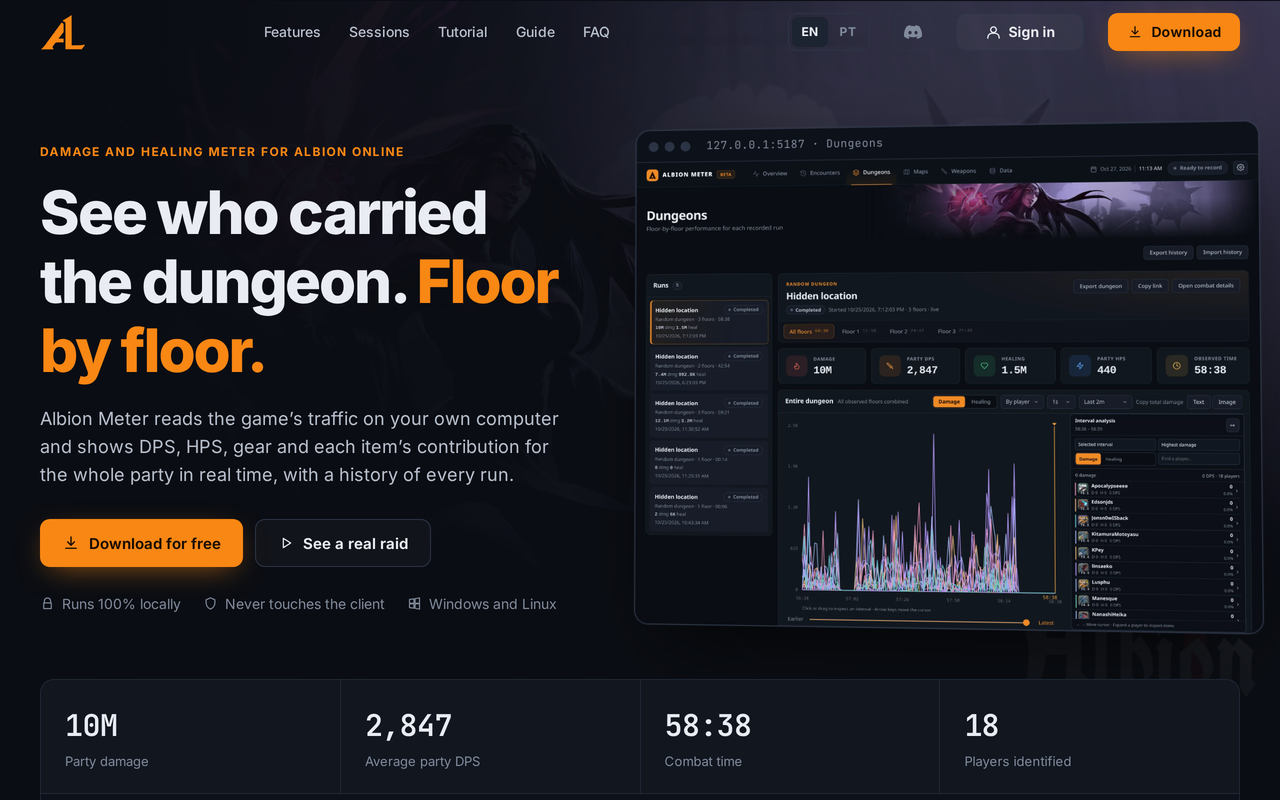
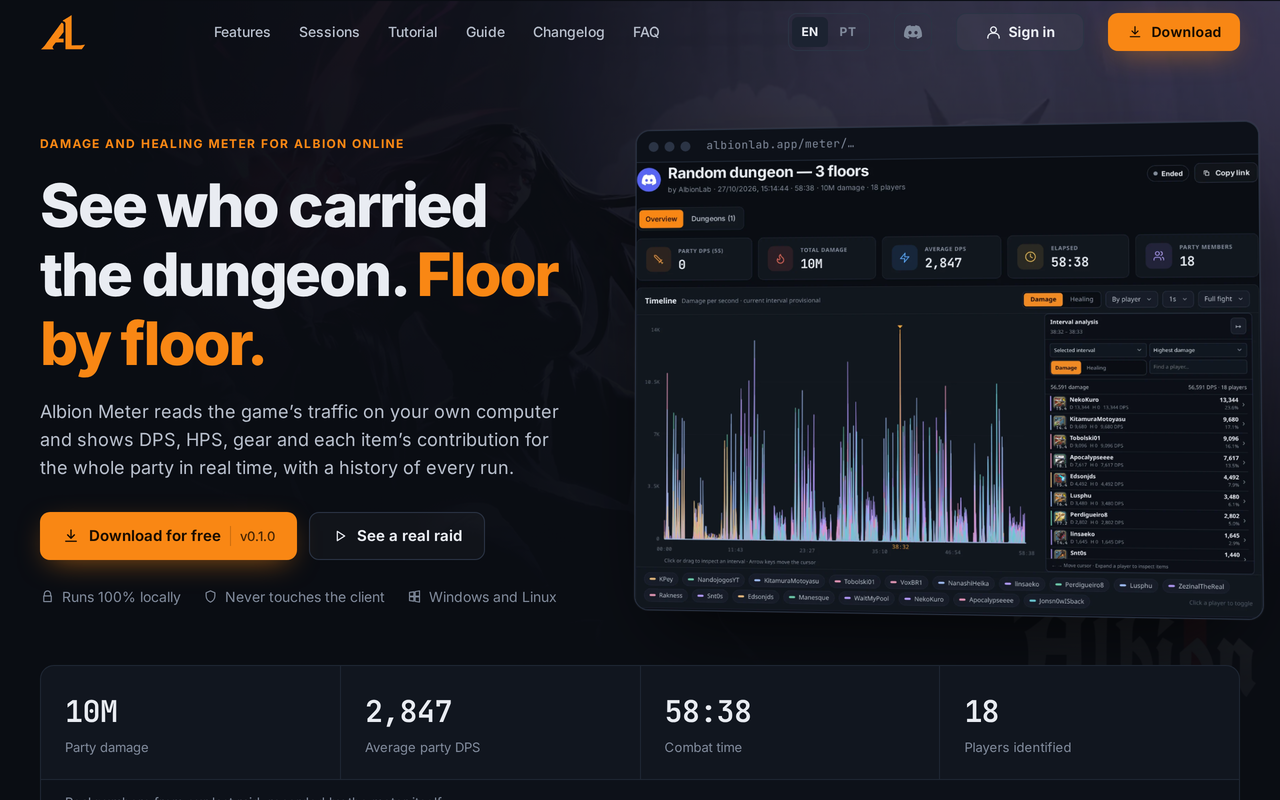
README: current AlbionLab home page and session screenshots

diff --git a/README.md b/README.md
@@ -43,6 +43,14 @@ Albion Meter runs on your own computer, observes the network traffic the game cl
 The dungeon location is never shared unless you turn it on. Connecting is optional: the meter works fully offline.
 
 <p align="center">
+  <img src="docs/images/albionlab-session.png" alt="The same 18-player dungeon as a session on AlbionLab: totals, per-second timeline and interval analysis" width="820">
+</p>
+
+<p align="center">
+  <img src="docs/images/albionlab-players.png" alt="Players and equipment on AlbionLab: each player's weapon, damage, healing, DPS and HPS" width="820">
+</p>
+
+<p align="center">
   <img src="docs/images/albionlab-raid.png" alt="A real 18-player dungeon on AlbionLab: top players, totals and party DPS by floor" width="820">
 </p>
 
